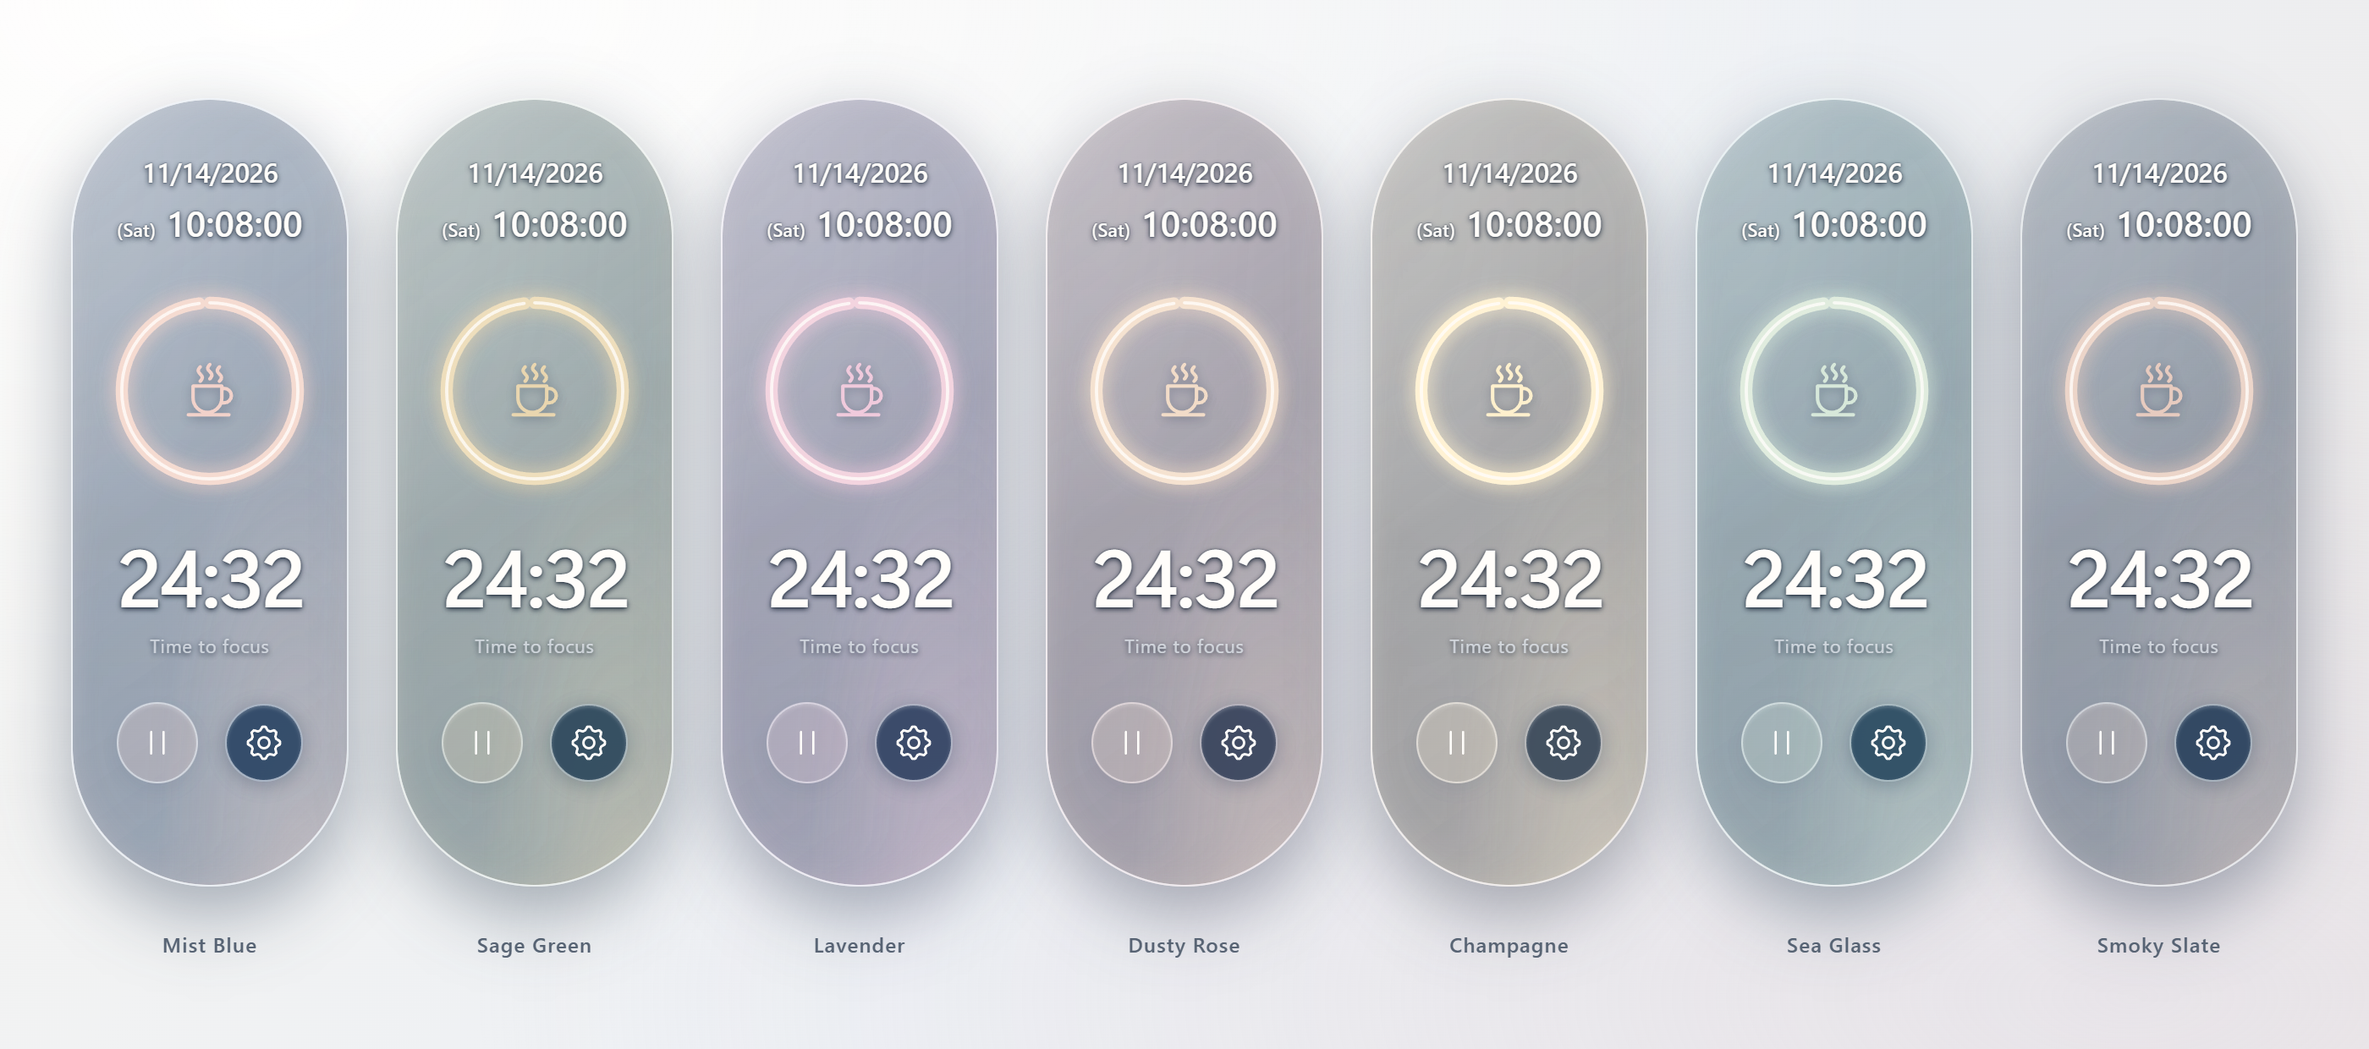
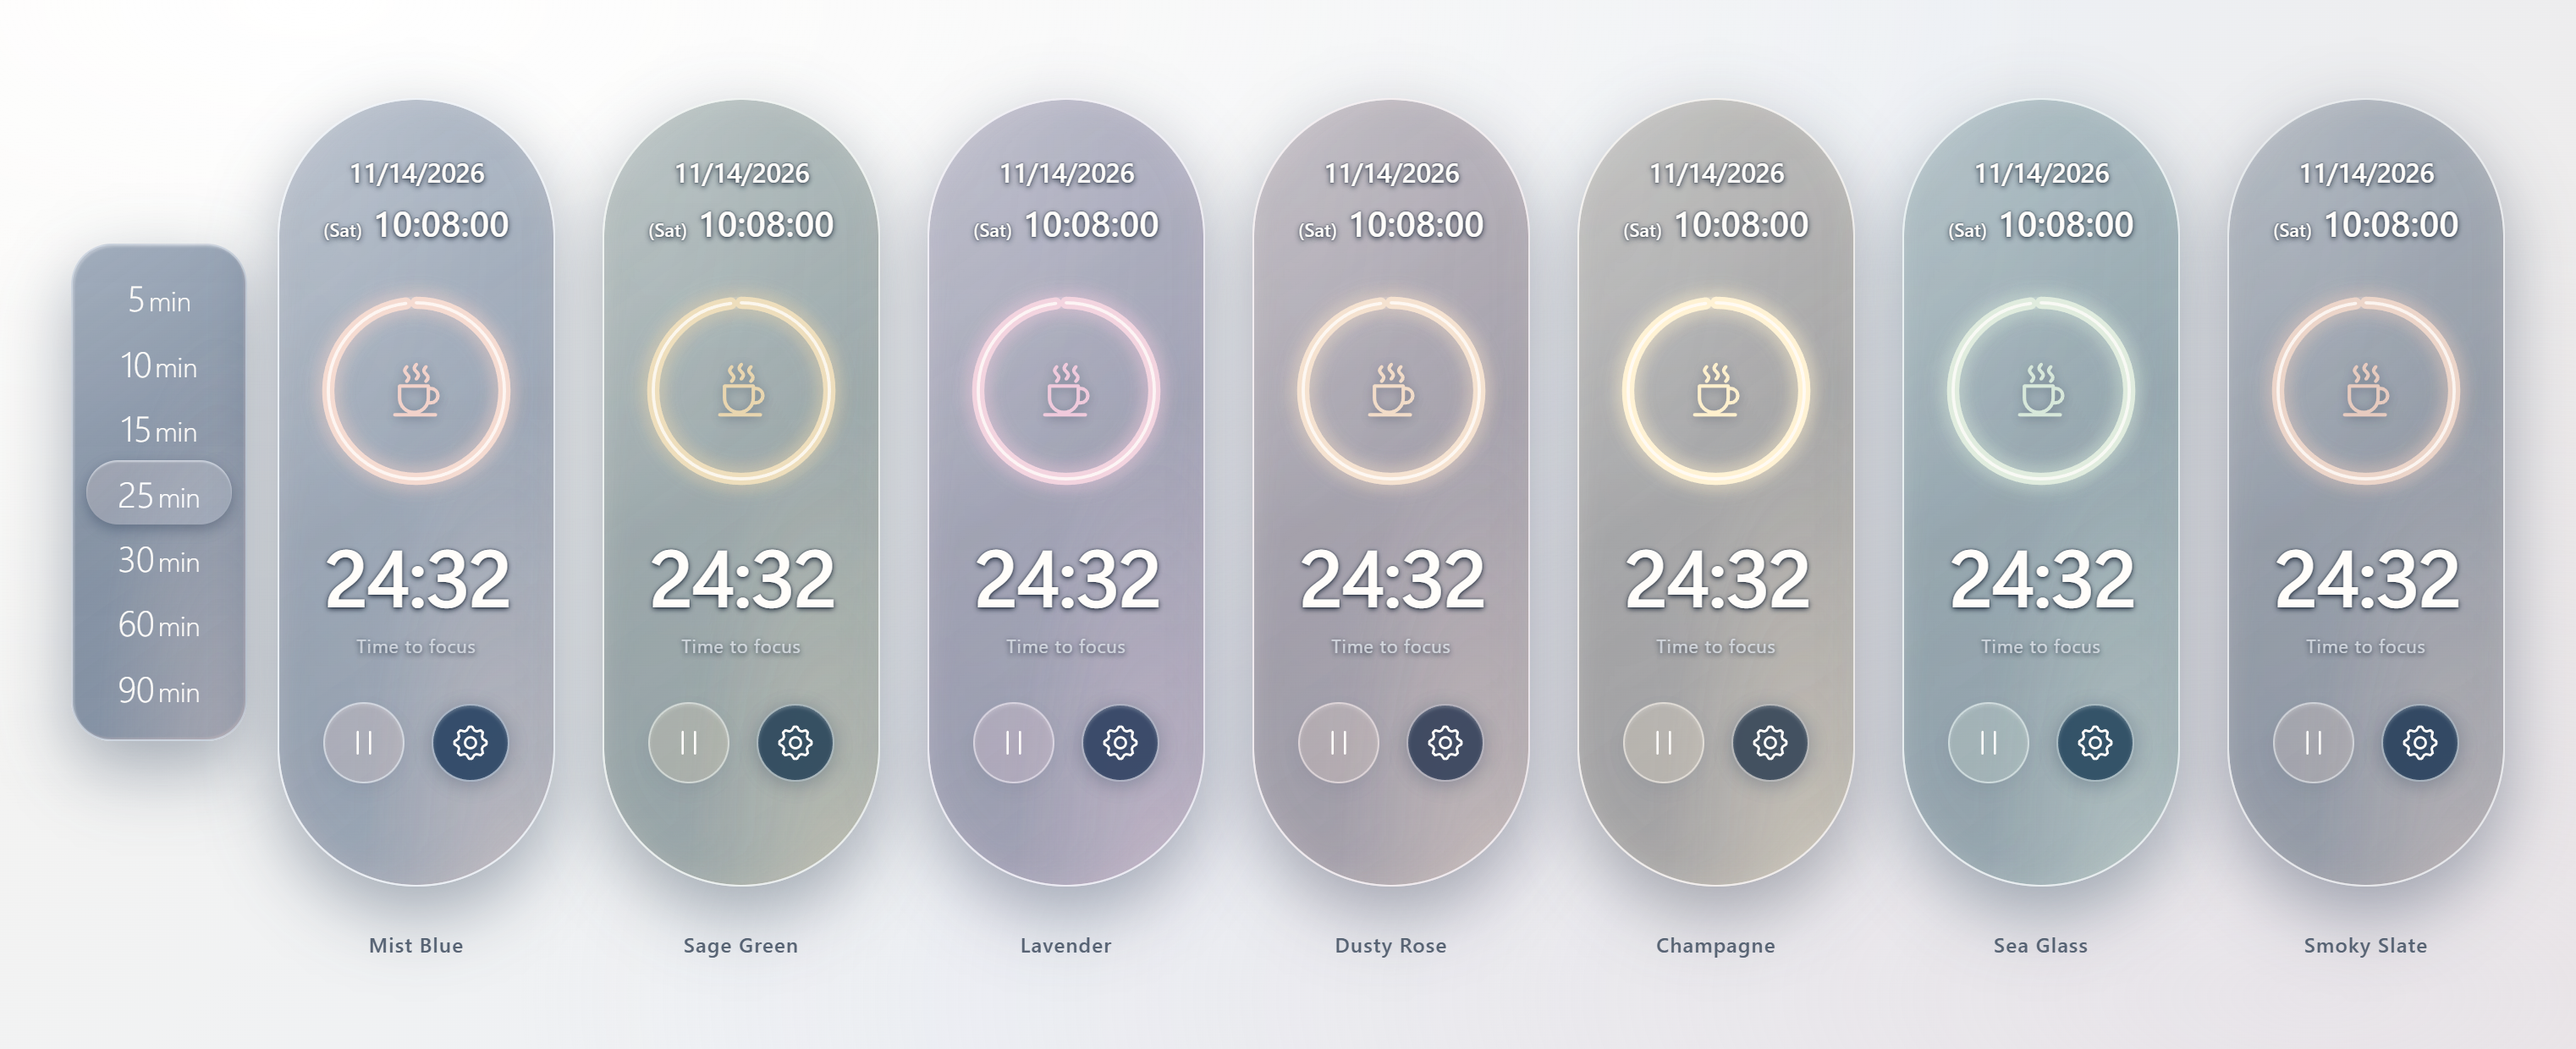
Show preset choices beside the first gallery timer [skip ci]

diff --git a/src/style.css b/src/style.css
@@ -1257,7 +1257,7 @@ input:focus-visible {
   justify-content: center;
   align-items: center;
   gap: 20px;
-  min-width: 1380px;
+  min-width: 1502px;
   padding: 48px 30px;
 }
 .release-theme {
@@ -1272,6 +1272,17 @@ input:focus-visible {
   font-size: 12px;
   font-weight: 500;
   letter-spacing: 0.05em;
+}
+.release-theme:first-child {
+  position: relative;
+  padding-left: 122px;
+}
+.release-gallery-selector {
+  position: absolute;
+  left: 0;
+  top: 86px;
+  width: 112px;
+  height: 302px;
 }
 .release-showcase {
   display: flex;

diff --git a/src/main.tsx b/src/main.tsx
@@ -809,6 +809,11 @@ function App() {
     <main className="release-gallery">
       {THEMES.map((theme) => (
         <section className="release-theme" key={theme.id} style={theme.style} data-theme={theme.id}>
+          {theme.id === THEMES[0].id && (
+            <div className="release-gallery-selector">
+              <Selector state={state} />
+            </div>
+          )}
           <Timer state={{ ...state, settings: { ...state.settings, theme: theme.id } }} studio />
           <h2>{t(theme.id)}</h2>
         </section>
